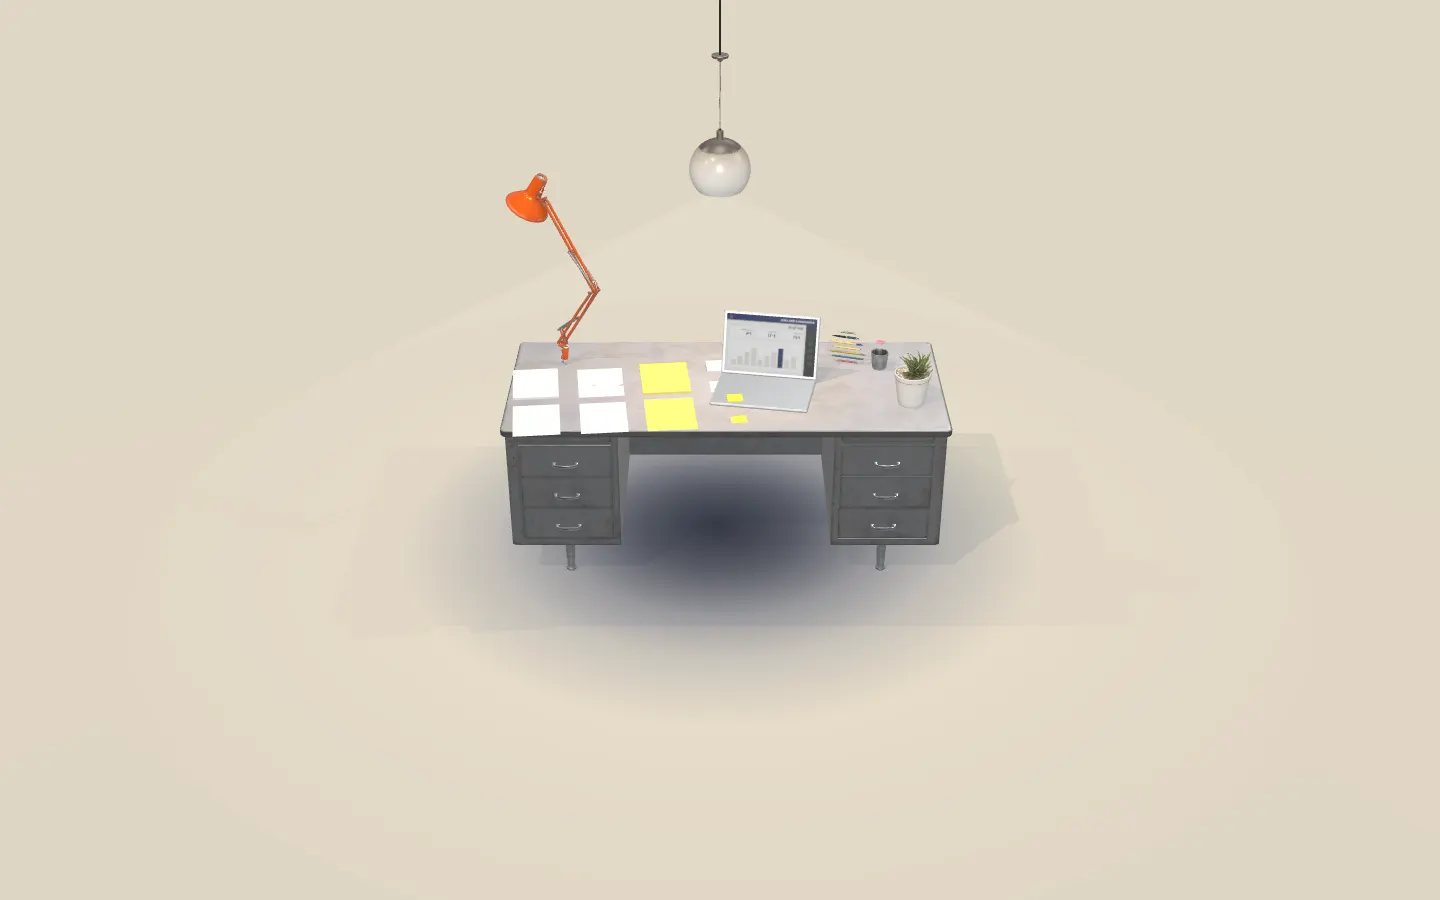
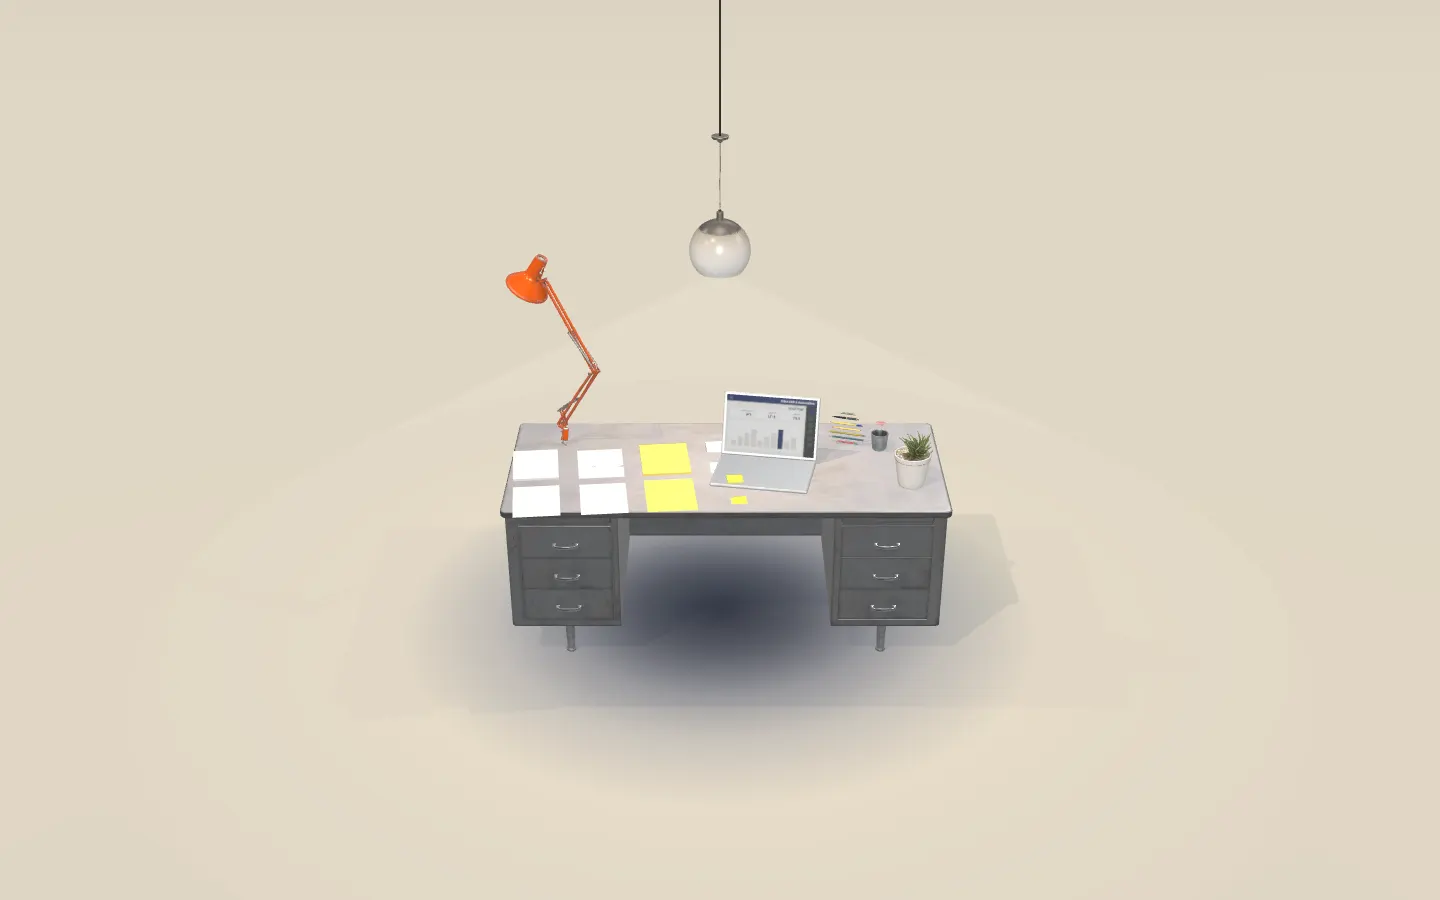
Hero: sit the single system lower in the frame

Changed region(s): [[0.3125, 0.1867, 0.7188, 0.84], [0.4688, 0.2489, 0.5312, 0.3111], [0.4688, 0.1556, 0.5312, 0.2178]]

diff --git a/src/three/Showroom.tsx b/src/three/Showroom.tsx
@@ -203,7 +203,7 @@ function viewFor(stop: number, mobile: boolean, aspect: number): View {
 /** How far the picture slides to make room for the text. */
 function shiftFor(layout: View['layout'], mobile: boolean): [number, number] {
   if (mobile) return [0, layout === 'hero' ? 0.28 : 0.2]
-  if (layout === 'hero') return [0, -0.08]
+  if (layout === 'hero') return [0, -0.17]
   if (layout === 'a') return [0.17, 0]
   if (layout === 'b') return [-0.17, 0]
   return [0, 0.25]
